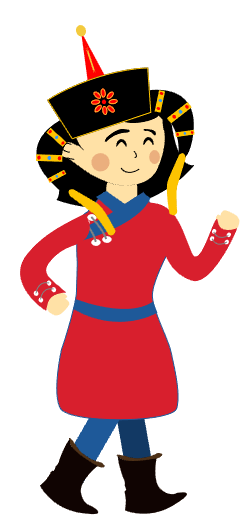
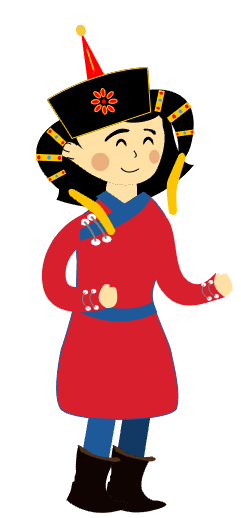
girl added

Changed region(s): [[0.0581, 0.0309, 0.9585, 1.0]]

diff --git a/public/js/main.js b/public/js/main.js
@@ -159,7 +159,12 @@ function drawBoy() {
     }
     if (isRunning){
         if (step > 2) {step = 0;}
-        ctx.drawImage(boyWalk[step], boy.x, boy.y, boy.height, boy.width);
+
+        if (localStorage.getItem("gender") == "boy")
+            ctx.drawImage(boyWalk[step], boy.x, boy.y, boy.height, boy.width);
+        else
+            ctx.drawImage(girlWalk[step], boy.x, boy.y, boy.height, boy.width);
+
         if (time % 16 == 0)
             step++;
      time++;
@@ -174,28 +179,40 @@ function drawBoy() {
             step = 0;
         }
         var zurag = new Image();
-        zurag.src = "./images/boy-jump-1.png";
+        if (localStorage.getItem("gender") == "boy")
+            zurag.src = "./images/boy-jump-1.png";
+        else
+            zurag.src = "./images/girl-jump-1.png";
 
         if(step == 0){
-        ctx.drawImage(zurag, boy.x, boy.y, boy.height - 9, boy.width);
+            ctx.drawImage(zurag, boy.x, boy.y, boy.height - 9, boy.width);
         }
 
         var zurag1= new Image();
-        zurag1.src = "./images/boy-jump-2.png";
+        if (localStorage.getItem("gender") == "boy")
+            zurag1.src = "./images/boy-jump-2.png";
+        else
+            zurag1.src = "./images/girl-jump-2.png";
 
         if(step == 1){
         ctx.drawImage(zurag1, boy.x, boy.y, boy.height -9, boy.width);
         }
 
         var zurag2 = new Image();
-        zurag2.src = "./images/boy-jump-3.png";
+        if (localStorage.getItem("gender") == "boy")
+            zurag2.src = "./images/boy-jump-3.png";
+        else
+            zurag2.src = "./images/girl-jump-3.png";
 
         if(step == 2){
         ctx.drawImage(zurag2, boy.x, boy.y, boy.height + 13 , boy.width);
         } 
 
         var zurag3 = new Image();
-        zurag3.src = "./images/boy-jump-4.png";
+        if (localStorage.getItem("gender") == "boy")
+            zurag3.src = "./images/boy-jump-4.png";
+        else
+            zurag3.src = "./images/girl-jump-4.png";
 
         if(step == 3){
             ctx.drawImage(zurag3, boy.x, boy.y, boy.height + 50, boy.width);

diff --git a/public/js/menu.js b/public/js/menu.js
@@ -1,3 +1,4 @@
 function loginDuud(){
+    localStorage.setItem("gender", "boy");
     location.replace("vndsen.html");
 }
